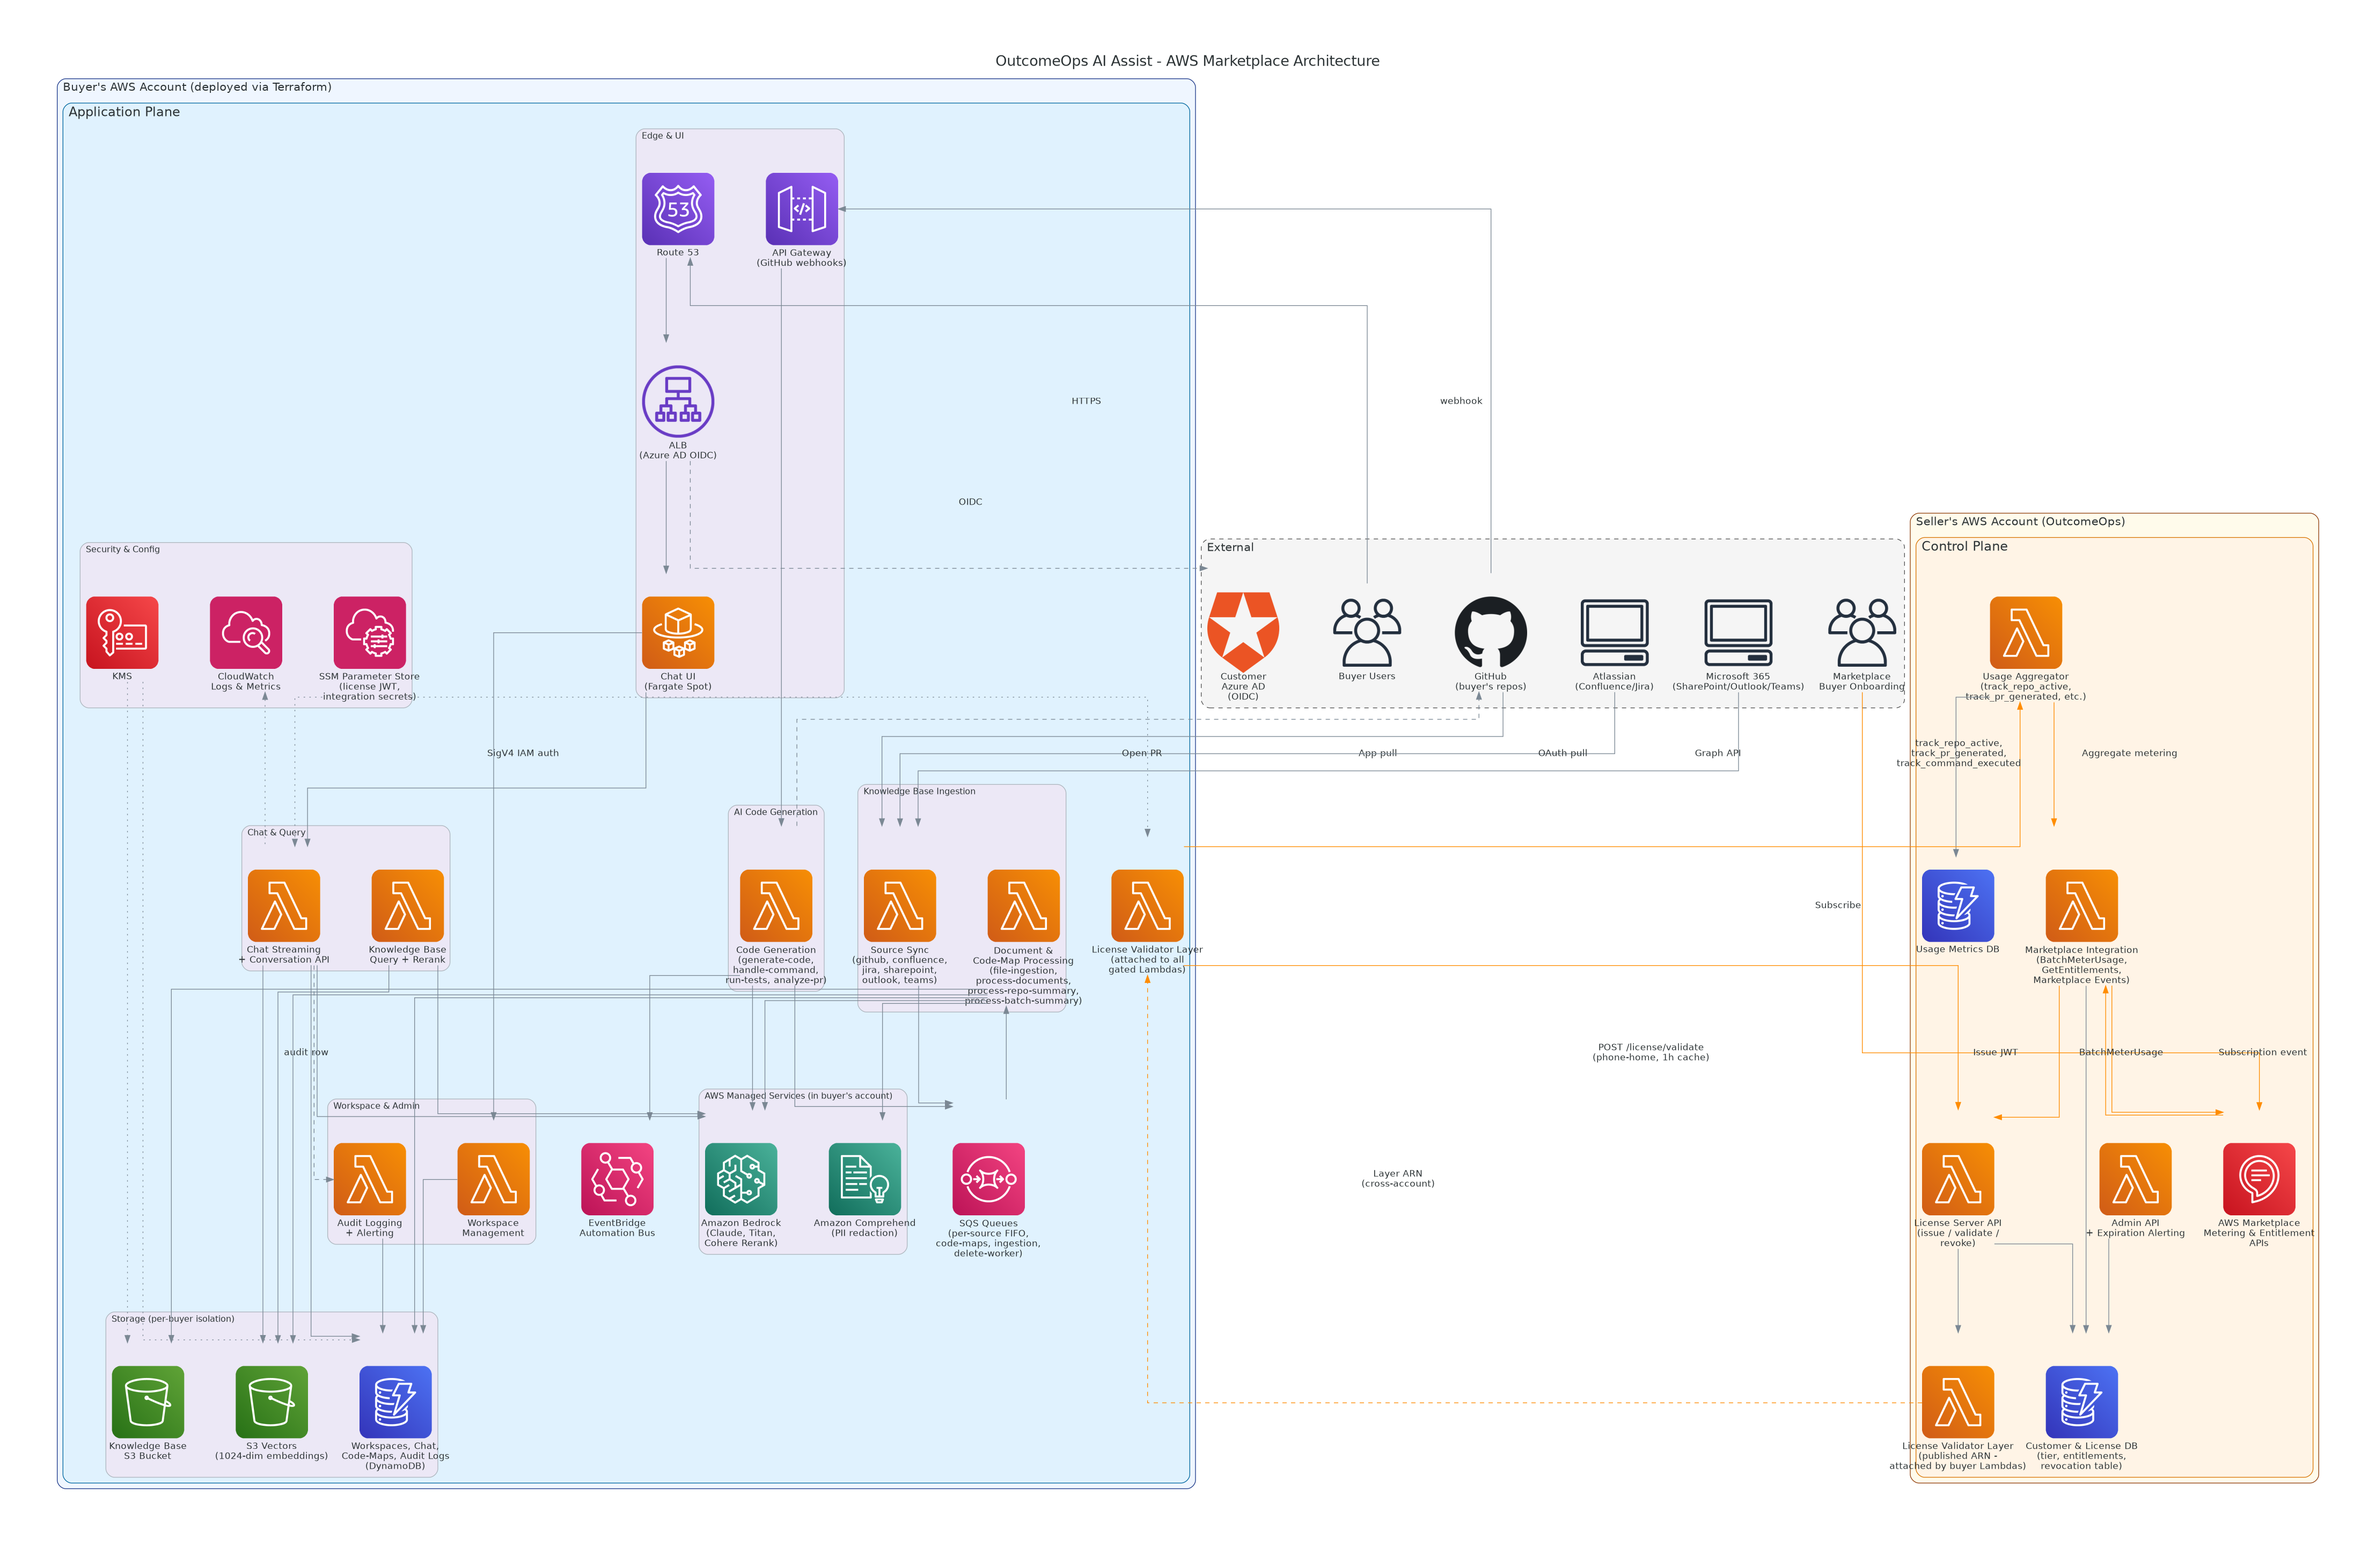
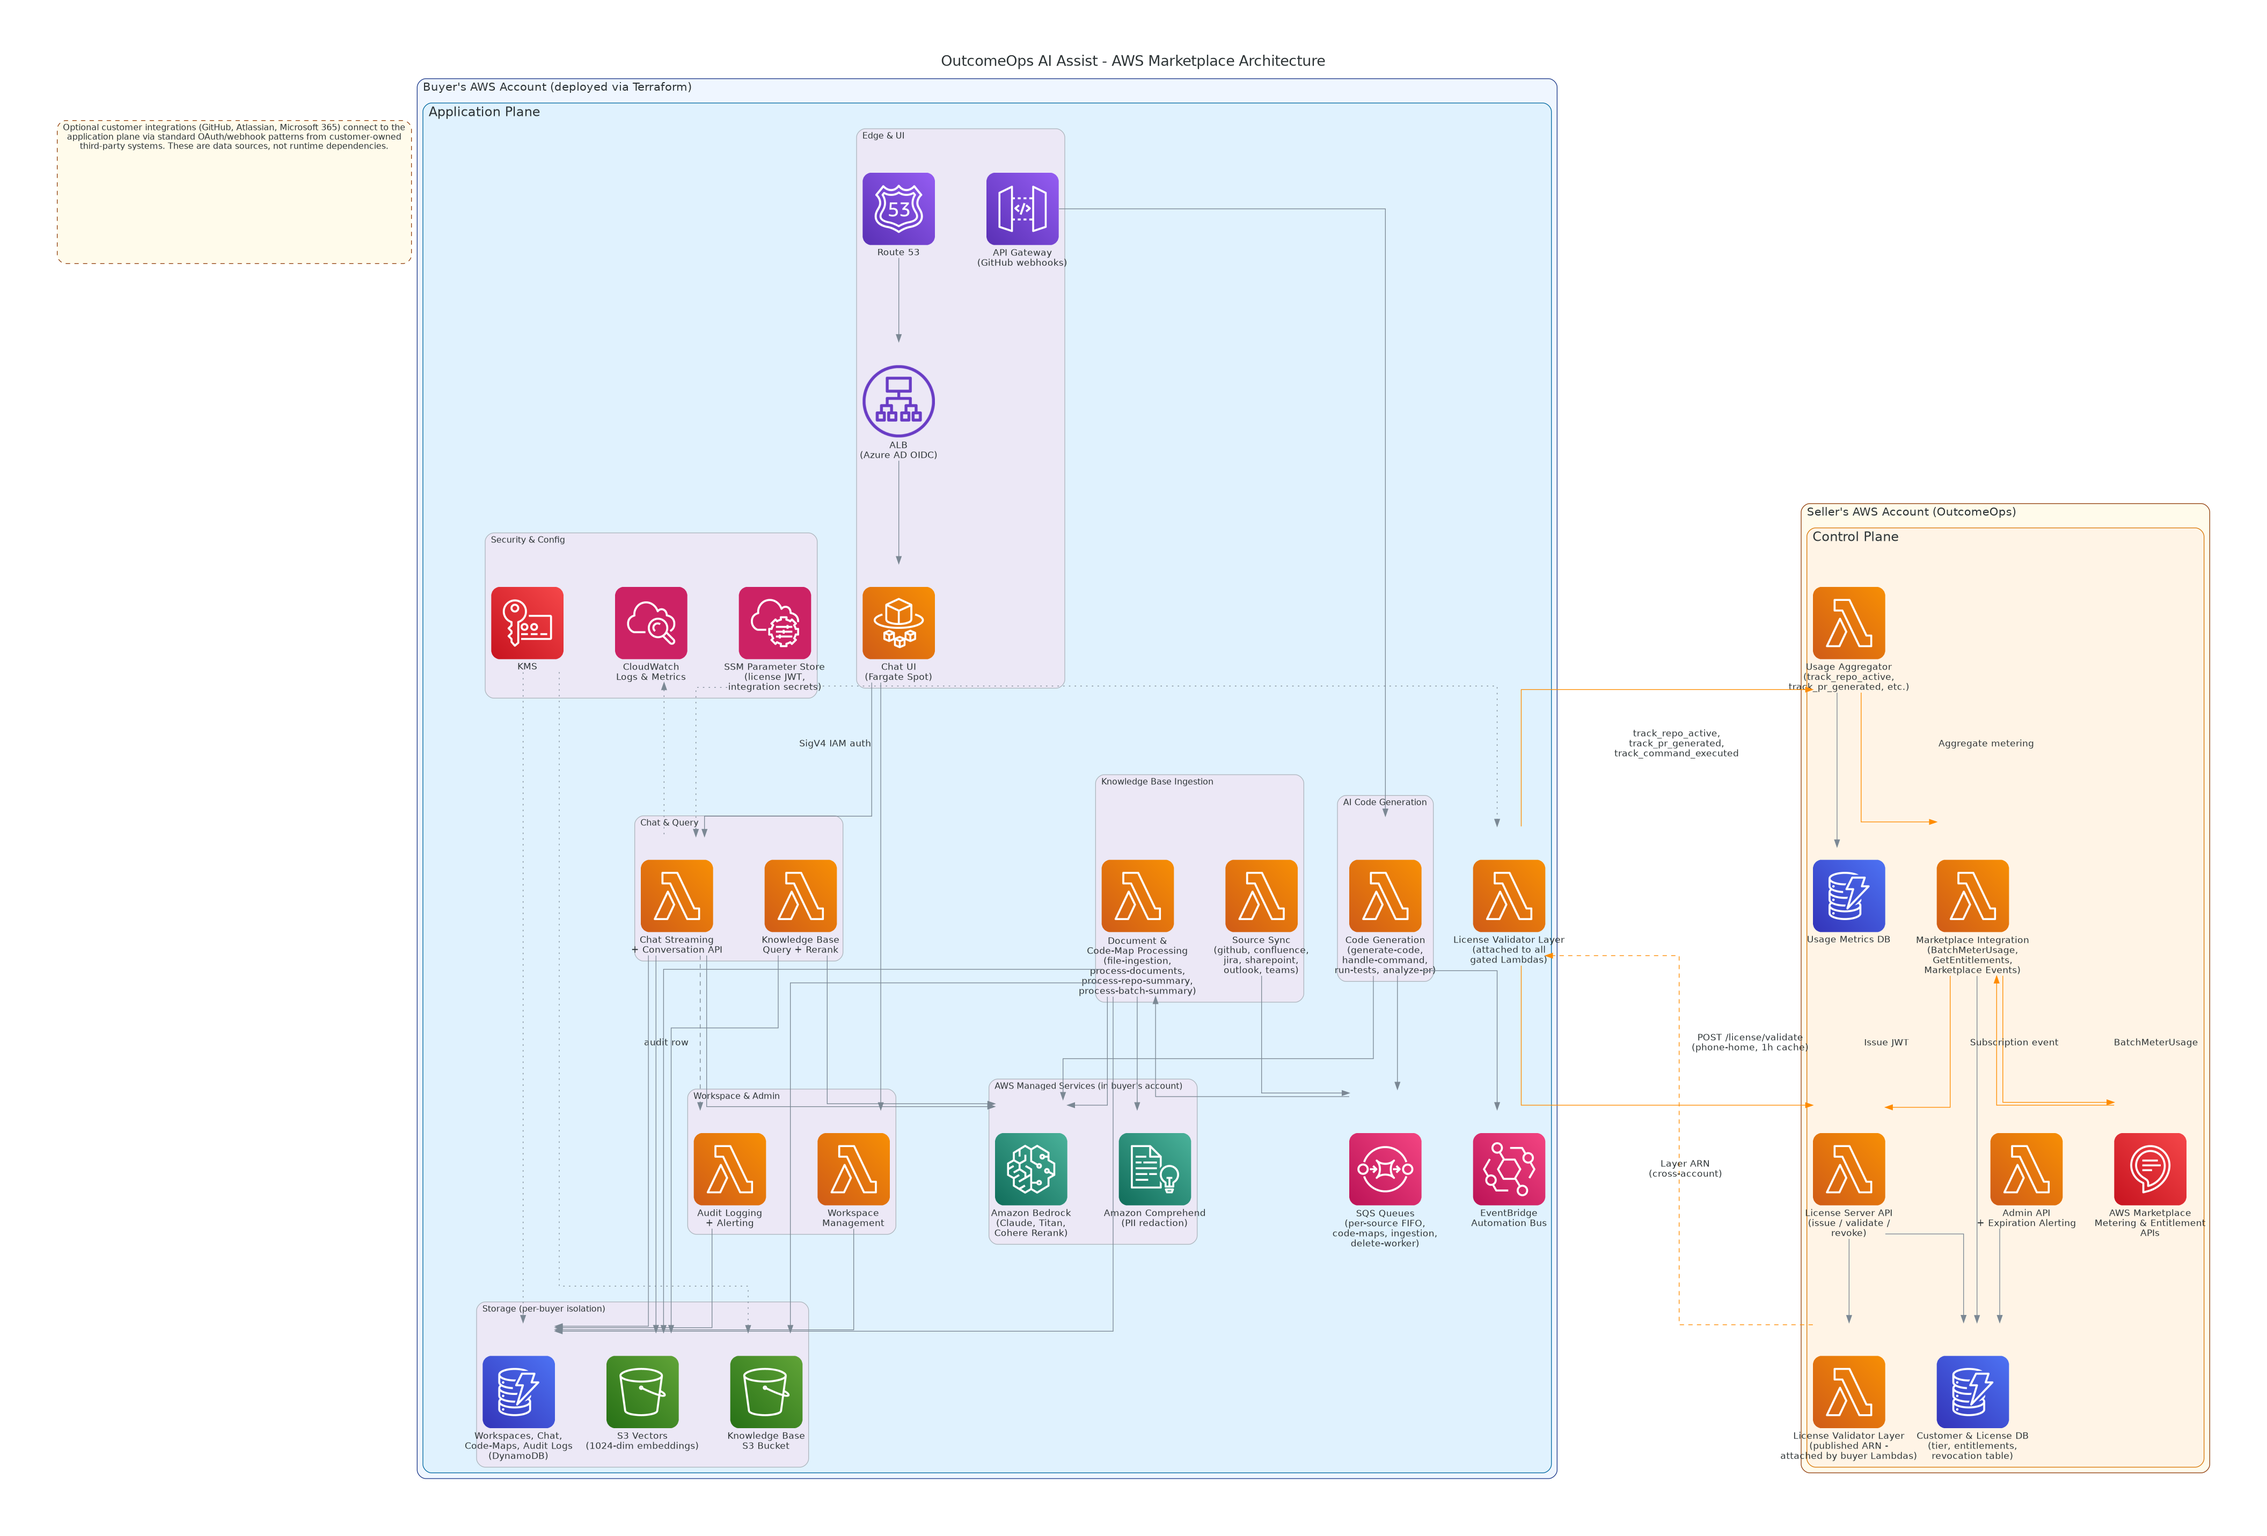
docs(diagram): drop External region from marketplace diagram
AWS Marketplace reviewers were misclassifying the External cluster
(GitHub / Atlassian / Microsoft 365 / Azure AD / buyer users) as runtime
dependencies of the SaaS data plane. Remove every non-AWS node + its
edges and add a dashed note clarifying that those integrations are
customer-owned data sources reached over standard OAuth/webhook patterns,
not runtime dependencies of the application plane.

diff --git a/diagrams/aws_marketplace_architecture.py b/diagrams/aws_marketplace_architecture.py
@@ -33,10 +33,7 @@ from diagrams.aws.ml import Sagemaker, Comprehend
 from diagrams.aws.security import KMS
 from diagrams.aws.management import SSM, Cloudwatch
 from diagrams.aws.business import AlexaForBusiness  # AWS Marketplace icon proxy
-from diagrams.saas.identity import Auth0
-from diagrams.onprem.client import Users
-from diagrams.onprem.vcs import Github
-from diagrams.onprem.client import Client
+from diagrams.generic.blank import Blank
 
 graph_attr = {
     "fontsize": "20",
@@ -62,10 +59,10 @@ cluster_application_plane = {
     "style": "rounded",
 }
 
-cluster_external = {
-    "bgcolor": "#F5F5F5",
-    "pencolor": "#525252",
-    "fontsize": "16",
+cluster_note = {
+    "bgcolor": "#FFFBEB",
+    "pencolor": "#92400E",
+    "fontsize": "12",
     "style": "rounded,dashed",
 }
 
@@ -93,17 +90,15 @@ with Diagram(
 ):
 
     # =========================================================================
-    # External actors
+    # Note: customer integrations are data sources, not runtime dependencies
     # =========================================================================
-    with Cluster("External", graph_attr=cluster_external):
-        buyer_users = Users("Buyer Users")
-        # Corporate IdPs are explicitly exempt from the "must run on AWS" rule
-        azure_ad = Auth0("Customer\nAzure AD\n(OIDC)")
-        # Source-of-data systems - buyer-controlled, not part of the SaaS data plane
-        github = Github("GitHub\n(buyer's repos)")
-        atlassian = Client("Atlassian\n(Confluence/Jira)")
-        m365 = Client("Microsoft 365\n(SharePoint/Outlook/Teams)")
-        marketplace_buyer = Users("Marketplace\nBuyer Onboarding")
+    with Cluster(
+        "Optional customer integrations (GitHub, Atlassian, Microsoft 365) connect to the\n"
+        "application plane via standard OAuth/webhook patterns from customer-owned\n"
+        "third-party systems. These are data sources, not runtime dependencies.",
+        graph_attr=cluster_note,
+    ):
+        Blank("")
 
     # =========================================================================
     # SELLER's AWS Account - Control Plane
@@ -195,7 +190,6 @@ with Diagram(
     # =========================================================================
 
     # --- Buyer onboarding via AWS Marketplace ---
-    marketplace_buyer >> Edge(label="Subscribe", color="darkorange") >> marketplace_api
     marketplace_api >> Edge(label="Subscription event", color="darkorange") >> marketplace_lambda
     marketplace_lambda >> license_db
     marketplace_lambda >> Edge(label="Issue JWT", color="darkorange") >> license_api
@@ -221,9 +215,7 @@ with Diagram(
                                color="darkorange") >> marketplace_api
 
     # --- Buyer user flow (application plane internal) ---
-    buyer_users >> Edge(label="HTTPS") >> dns >> alb
-    alb >> Edge(label="OIDC", style="dashed") >> azure_ad
-    alb >> ui
+    dns >> alb >> ui
     ui >> Edge(label="SigV4 IAM auth") >> chat_svc
     ui >> ws_svc
 
@@ -235,16 +227,12 @@ with Diagram(
     query_svc >> s3_vec
 
     # --- Code Generation ---
-    github >> Edge(label="webhook") >> api_gw >> codegen_svc
+    api_gw >> codegen_svc
     codegen_svc >> bedrock
     codegen_svc >> queues
     codegen_svc >> eventbus
-    codegen_svc >> Edge(label="Open PR", style="dashed") >> github
 
     # --- Knowledge Base Ingestion ---
-    github >> Edge(label="App pull") >> ingest_svc
-    atlassian >> Edge(label="OAuth pull") >> ingest_svc
-    m365 >> Edge(label="Graph API") >> ingest_svc
     ingest_svc >> queues
     queues >> process_svc
     process_svc >> comprehend
